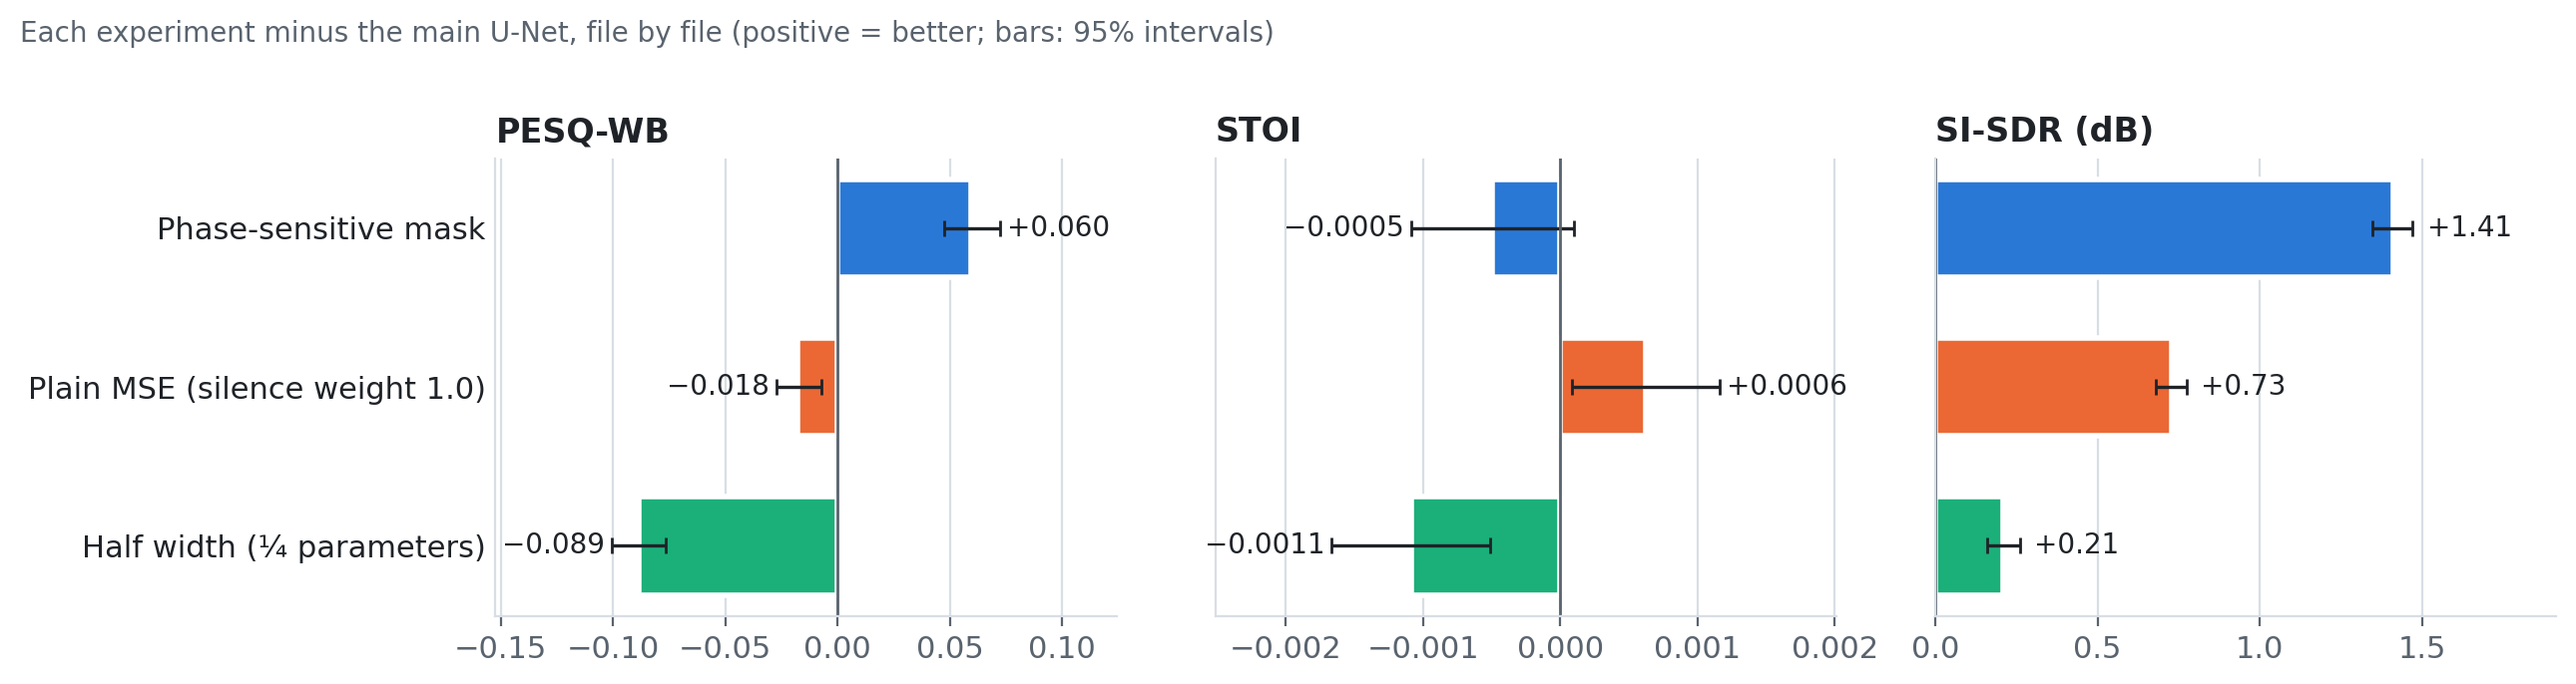
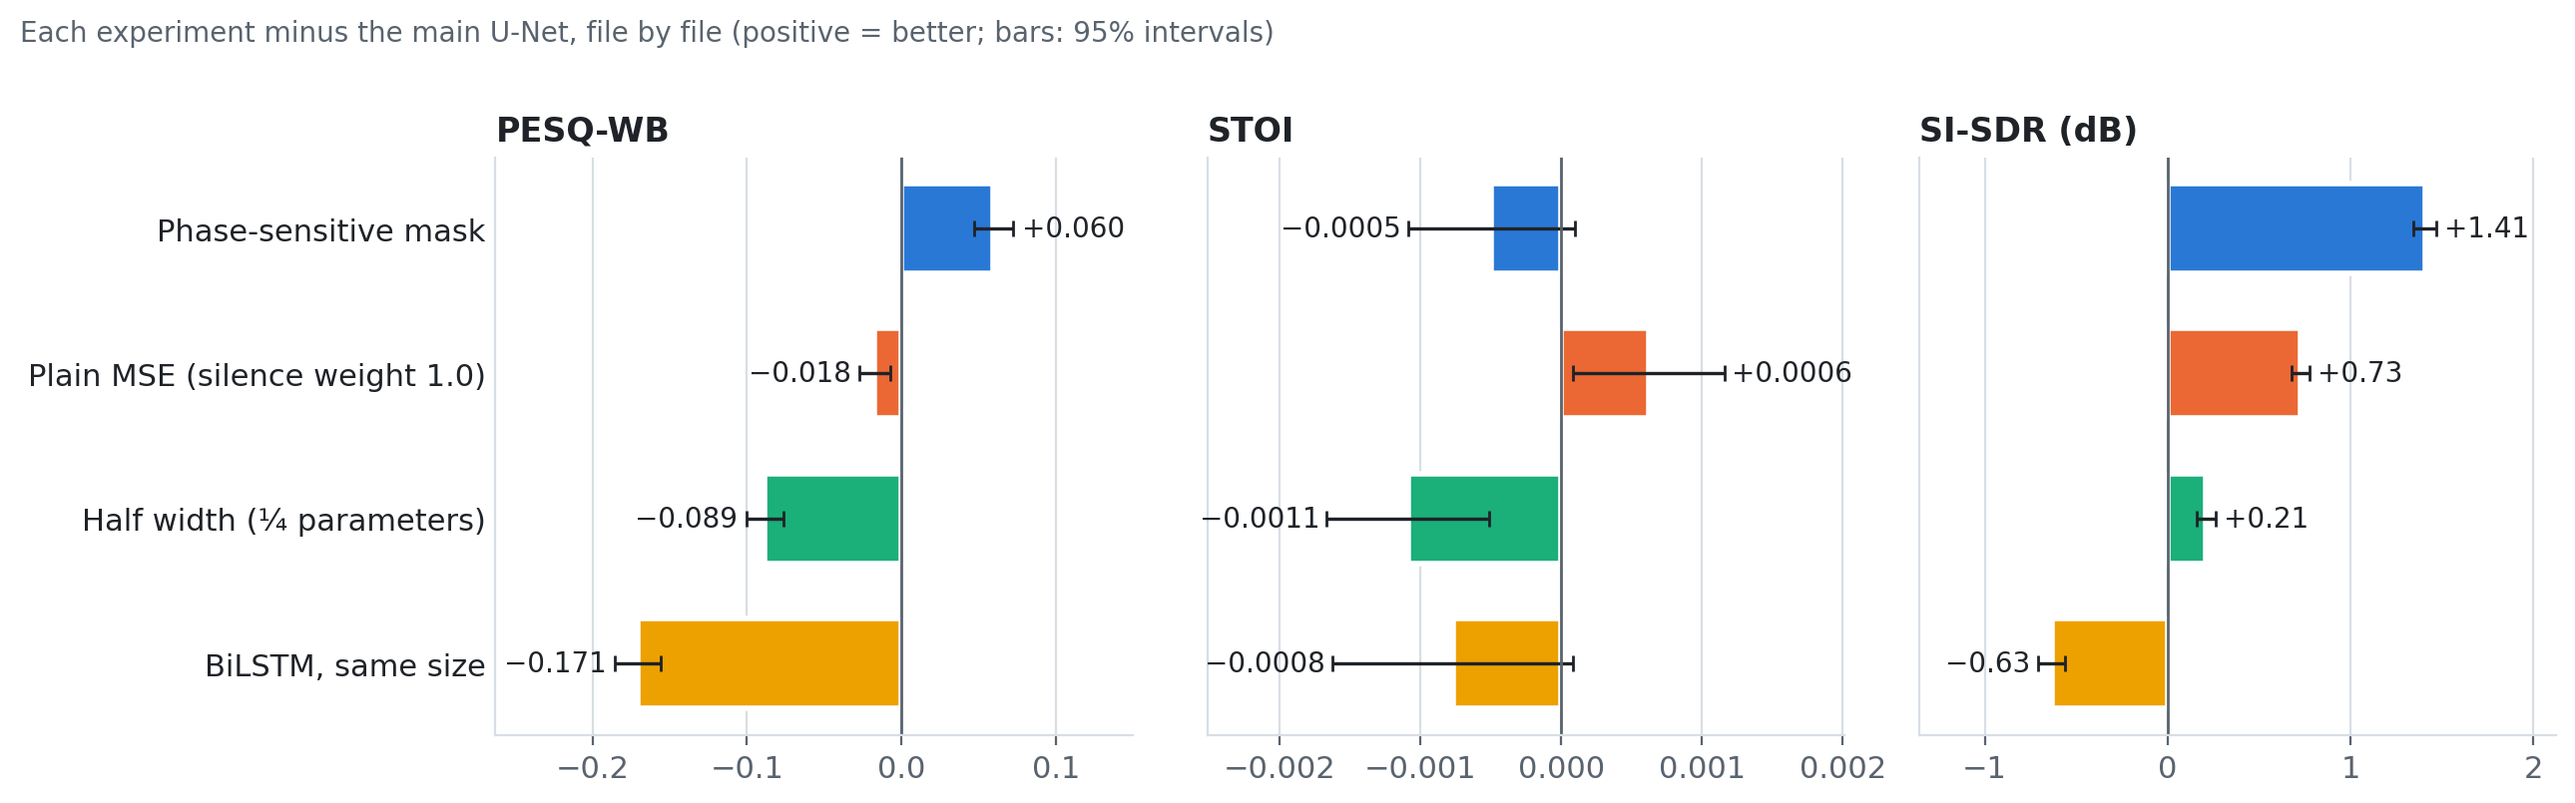
* Meant to be in last commit

diff --git a/figures/make_figures.py b/figures/make_figures.py
@@ -28,9 +28,9 @@ RUNS = ROOT / "metric_suite" / "results" / "runs"
 UNET = ROOT / "unet_model" / "outputs"
 OUT = Path(__file__).resolve().parent
 
-# Text and structure colors, plus one accent for the U-Nets (reference palette, slots 1-3).
+# Text and structure colors, plus the reference palette's categorical slots 1-4 (yellow = the BiLSTM).
 INK, MUTED, GRID = "#1f2328", "#59636e", "#d8dee4"
-BLUE, ORANGE, AQUA = "#2a78d6", "#eb6834", "#1baf7a"
+BLUE, ORANGE, AQUA, YELLOW = "#2a78d6", "#eb6834", "#1baf7a", "#eda100"
 BASELINE, CEILING = "#8c959f", "#c6ccd2"
 
 # (label, metric CSV, family) in display order, top to bottom.
@@ -38,6 +38,7 @@ SYSTEMS = [
     ("Ridge regression", "linear_baseline__outputs__ridge_28spk", "baseline"),
     ("Wiener, min. statistics", "wiener_baseline__outputs__wiener_minstats_test", "baseline"),
     ("Wiener, leading noise", "wiener_baseline__outputs__wiener_leading_test", "baseline"),
+    ("BiLSTM (same size as U-Net)", "unet_model__outputs__bilstm_28spk", "bilstm"),
     ("U-Net, half width", "unet_model__outputs__unet_28spk_c8", "unet"),
     ("U-Net, plain MSE", "unet_model__outputs__unet_28spk_sw1", "unet"),
     ("U-Net (main)", "unet_model__outputs__unet_28spk", "unet"),
@@ -49,6 +50,7 @@ EXPERIMENTS = [
     ("Phase-sensitive mask", "unet_model__outputs__unet_28spk_psm"),
     ("Plain MSE (silence weight 1.0)", "unet_model__outputs__unet_28spk_sw1"),
     ("Half width (¼ parameters)", "unet_model__outputs__unet_28spk_c8"),
+    ("BiLSTM, same size", "unet_model__outputs__bilstm_28spk"),
 ]
 
 
@@ -108,7 +110,7 @@ def bar_panel(ax, labels, means, cis, colors, title, fmt, zero=True):
 def improvement_figure():
     rows = {name: load(name) for _, name, _ in SYSTEMS}
     stems = sorted(set.intersection(*(set(r) for r in rows.values())))
-    colors = [{"baseline": BASELINE, "unet": BLUE, "oracle": CEILING}[fam] for _, _, fam in SYSTEMS]
+    colors = [{"baseline": BASELINE, "unet": BLUE, "bilstm": YELLOW, "oracle": CEILING}[fam] for _, _, fam in SYSTEMS]
     labels = [label for label, _, _ in SYSTEMS]
     fig, axes = plt.subplots(1, 2, figsize=(12, 4.6), sharey=True)
     for ax, key, title, fmt in [
@@ -129,8 +131,8 @@ def experiments_figure():
     runs = [(label, load(name)) for label, name in EXPERIMENTS]
     stems = sorted(set(main).intersection(*(set(r) for _, r in runs)))
     labels = [label for label, _ in runs]
-    colors = [BLUE, ORANGE, AQUA]
-    fig, axes = plt.subplots(1, 3, figsize=(13, 3.4), sharey=True)
+    colors = [BLUE, ORANGE, AQUA, YELLOW]
+    fig, axes = plt.subplots(1, 3, figsize=(13, 4.0), sharey=True)
     for ax, key, title, fmt in [
         (axes[0], "pesq_wb_processed", "PESQ-WB", "{:+.3f}"),
         (axes[1], "stoi_processed", "STOI", "{:+.4f}"),
@@ -174,7 +176,8 @@ def training_figure():
     ax = axes[1]
     for run, label, color in [("unet_28spk", "main (silence weight 0.25)", BLUE),
                               ("unet_28spk_sw1", "plain MSE (weight 1.0)", ORANGE),
-                              ("unet_28spk_c8", "half width", AQUA)]:
+                              ("unet_28spk_c8", "half width", AQUA),
+                              ("bilstm_28spk", "BiLSTM", YELLOW)]:
         h = history(run)
         ax.plot(h["epoch"], h["val_mse"], color=color, linewidth=2, label=label)
         ax.text(h["epoch"][-1] + 0.4, h["val_mse"][-1], label.split(" (")[0], color=INK, fontsize=9,

diff --git a/unet_model/README.md b/unet_model/README.md
@@ -32,6 +32,7 @@ in `../.cache/speechprep` (about 4 GB for 28spk + test, filled in parallel on ev
 | Input | noisy `log(|Y| + 1e-6)`, standardized per frequency bin with training-set mean/std (stored in the checkpoint) |
 | Target | `irm` = `clip(|C|/|Y|, 0, 1)` (default) or `psm` = `clip(|C|/|Y|·cos(Δθ), 0, 1)` |
 | Network | pad to multiples of 16 → 4 × [DoubleConv(3×3 conv, BN, ReLU ×2), MaxPool 2] → bottleneck → 4 × [ConvTranspose 2×2, concat skip, DoubleConv] → 1×1 conv → sigmoid → crop. Channels 16-32-64-128-256 (`--base-channels`), 1.94 M parameters |
+| Comparison network | `--arch bilstm`: same input, mask, loss and training; 2-layer bidirectional LSTM over frames (208 units each way, `--lstm-hidden`, `--lstm-layers`) → linear → sigmoid, 1.93 M parameters. Trains on CPU when the device is auto: PyTorch 2.2's LSTM gradients on Apple MPS are wrong |
 | VAD | frame is silent if clean frame energy < utterance peak − `--silence-db` (30 dB → 28% of 28spk frames; 40 dB → 5%) |
 | Loss | per-frame weighted MSE (or Huber, δ = 0.1): weight 1 speech, `--silence-weight` (0.25) silence, 0 padding, normalized by total weight. `--silence-weight 1` = plain MSE |
 | Training | random 256-frame crops (2.05 s), batch 16, AdamW (lr 1e-3, wd 1e-2), ReduceLROnPlateau (×0.5, patience 2) or `--scheduler cosine`, grad clip 5, early stop after 6 stale epochs, seed 0 |

diff --git a/README.md b/README.md
@@ -9,7 +9,7 @@ a diagnostic viewer. The U-Net writes the same output layout, so the suite and v
 | `linear_baseline/` | Linear ML baseline: per-frequency-bin Ridge regression on 3×3 spectral patches, with an α sweep |
 | `speechprep/` | Shared 16 kHz preprocessing (resampling, STFT 512/128, speaker split, waveform cache), identical to the Ridge front end |
 | `colab/` | `train_comparison.ipynb`: trains one U-Net comparison run on a free Colab GPU, saving to Google Drive (used for the phase-sensitive mask run). Edinburgh DataShare now refuses downloads from Colab (HTTP 403); if the download cell fails, upload the dataset to Drive and point `DATA_DIR` at it |
-| `unet_model/` | 2D U-Net ratio-mask model with a silence-weighted loss (PyTorch) |
+| `unet_model/` | 2D U-Net ratio-mask model with a silence-weighted loss (PyTorch), plus a same-size BiLSTM for comparison (`--arch bilstm`) |
 | `metric_suite/` | Scores every model run: PESQ-WB, STOI and SNR gain vs the noisy input |
 | `figures/` | `make_figures.py`: results figures for the slides (improvement bars with 95% intervals, the three U-Net experiments, training curves, spectrograms) |
 | `diagnostic_viewer/` | Web app (Docker) to watch and listen to clean / noisy / processed triplets per system, loudness-matched |
